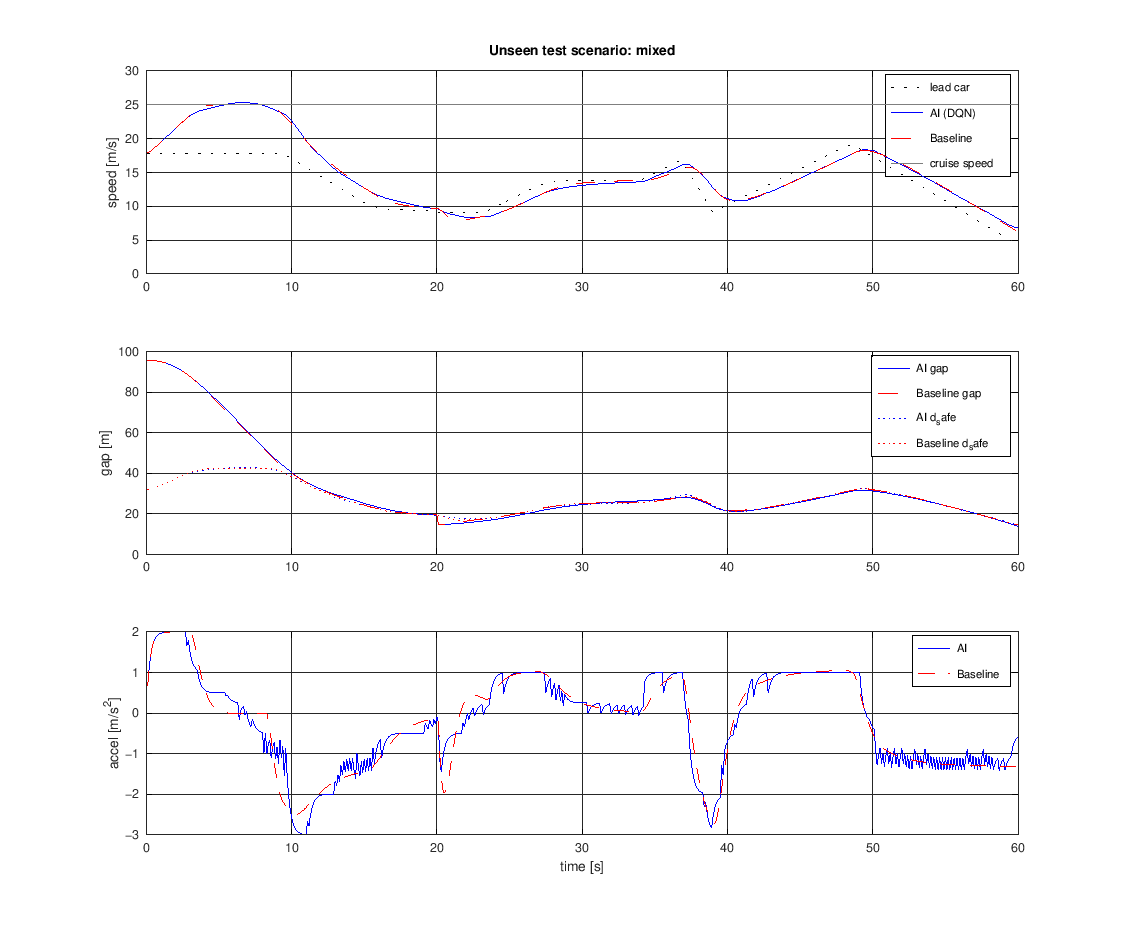
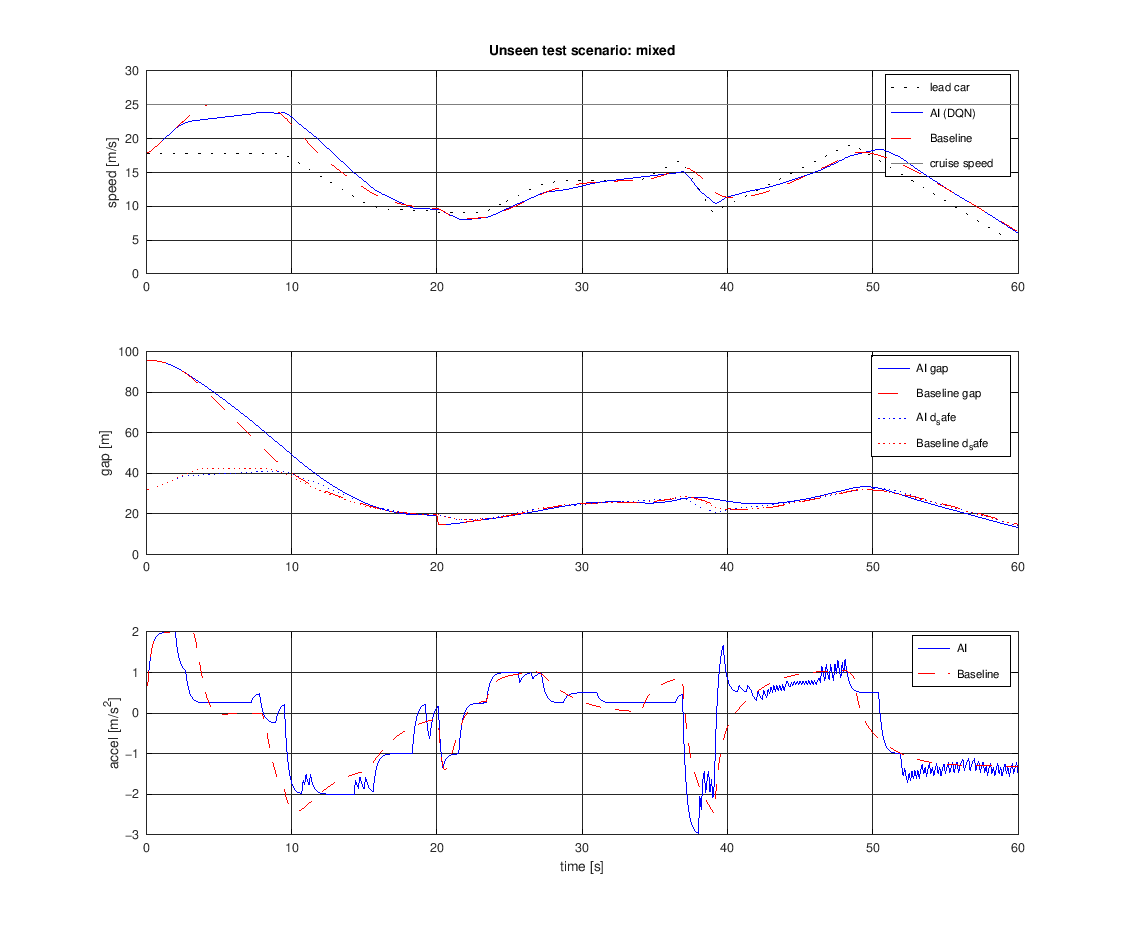
Final run 9 results: re-tuned baseline, exam, stress test, docs
Baseline re-tuned fairly with the new reward and the lead-acceleration
feed-forward option: kp 0.36, kd 0.56, kv 1.5625, e_max 20, ka 0.30.

Exam (105 unseen drives, fourth use, model chosen on the dev set before
it): AI 0 crashes, baseline 0. Gap error AI 10.14 m vs 6.14 m, speed RMSE
2.60 vs 2.61, RMS accel 0.85 vs 0.88, RMS jerk 1.43 vs 0.69. The AI is
more cautious (follows about 9 m further back than d_safe).

Hard-stop stress test (60 drives, AEB off): AI 0 crashes, baseline 8,
previous AI 7.

README, LEARN_WITH_ME and REPORT_NOTES updated with the live-demo crash
story, the new state input, AEB, the honest trade-off, and three new viva
questions.

Claude-Session: https://claude.ai/code/session_01H9iWyBBSsVLaehcuAAkSuw

diff --git a/acc-rl/baseline_acc.m b/acc-rl/baseline_acc.m
@@ -2,12 +2,12 @@ function a = baseline_acc(env, cfg, gains)
 % BASELINE_ACC  A conventional (non-AI) Adaptive Cruise Controller.
 %
 %   a = baseline_acc(env, cfg)          uses the tuned default gains
-%   a = baseline_acc(env, cfg, gains)   gains = [kp kd kv e_max]
+%   a = baseline_acc(env, cfg, gains)   gains = [kp kd kv e_max ka]
 %
 % This is the "rule book driver" used in real cars for years: the
 % CONSTANT TIME-GAP controller, a PD (proportional-derivative) law.
 %
-%   Follow mode :  a_follow = kp * e + kd * (lead speed - our speed)
+%   Follow mode :  a_follow = kp * e + kd * (lead speed - our speed) + ka * (lead accel)
 %                  where e = gap - d_safe, capped at e_max ("saturation")
 %                  "too close -> brake, closing in -> brake, pulling away -> go"
 %   Cruise mode :  a_cruise = kv * (set speed - our speed)
@@ -24,7 +24,7 @@ function a = baseline_acc(env, cfg, gains)
 % the TRAINING scenarios, scored with the SAME reward the AI is trained on.
 
 if nargin < 3 || isempty(gains)
-    gains = [0.45, 0.70, 1.25, 20, 0.6];  % [kp kd kv e_max ka] from tune_baseline.m
+    gains = [0.36, 0.56, 1.5625, 20, 0.30];  % [kp kd kv e_max ka] from tune_baseline.m (run 9)
 end
 kp = gains(1); kd = gains(2); kv = gains(3); e_max = gains(4);
 ka = 0;

diff --git a/acc-rl/REPORT_NOTES.md b/acc-rl/REPORT_NOTES.md
@@ -113,74 +113,105 @@ grid, so the search could have rejected it.
 
 ### 7.1 Training
 
-* 800 episodes, about 18 minutes in Octave on one CPU core.
-* Reward curve (`results/training_reward_curve.png`): starts around -100 to
-  -200 per episode (random pedals, frequent crashes), rises steadily, and
-  plateaus around 400 to 440 once exploration falls to 5% (episode 480).
-* Saved model: episode 770, mock-test score 435.1 on 18 validation drives,
-  with zero crashes.
+* 800 episodes, about 19 minutes in Octave on one CPU core.
+* Reward curve (`results/training_reward_curve.png`): starts far below
+  zero (random pedals, frequent crashes, each crash now costs -300), rises
+  steadily, and plateaus around 400 to 450 once exploration falls to 5%
+  (episode 480).
+* Three seeds were trained (run 9). Saved model: seed 1, episode 730,
+  mock-test score 428.7 on 21 validation drives, with zero crashes.
 
 ### 7.2 Final exam: 105 unseen test episodes (7 families x 15)
 
 | Metric | AI (DQN) | Baseline (PD) | Better |
 |--------|---------:|--------------:|--------|
-| Average following distance [m] | 34.08 | 35.35 | (info) |
-| Average safe distance d_safe [m] | 30.42 | 29.81 | (info) |
-| Gap error abs(gap - d_safe) [m] | 6.29 | 6.24 | Baseline, by 0.7% (practically a tie) |
-| Speed tracking RMSE [m/s] | 2.80 | 2.61 | Baseline, by 7% |
+| Average following distance [m] | 38.74 | 35.18 | (info) |
+| Average safe distance d_safe [m] | 29.63 | 29.84 | (info) |
+| Gap error abs(gap - d_safe) [m] | 10.14 | **6.14** | **Baseline**, clearly |
+| Speed tracking RMSE [m/s] | **2.60** | 2.61 | AI, by 0.5% (a tie) |
 | **Collision rate** | **0%** | **0%** | tie |
-| RMS acceleration [m/s^2] | **0.88** | 0.91 | **AI**, by 3% |
-| RMS jerk [m/s^3] | 1.50 | **0.72** | **Baseline**, clearly |
-| Minimum gap, worst episode [m] | 4.00 | 5.00 | Baseline |
-| Minimum gap, average episode [m] | 18.74 | 19.06 | Baseline, by 2% |
-| Average total reward per episode | 448.7 | 485.5 | Baseline |
+| RMS acceleration [m/s^2] | **0.85** | 0.88 | **AI**, by 3% |
+| RMS jerk [m/s^3] | 1.43 | **0.69** | **Baseline**, clearly |
+| Minimum gap, worst episode [m] | 4.85 | 5.00 | Baseline (a tie) |
+| Minimum gap, average episode [m] | **20.13** | 19.20 | AI, by 5% |
+| Average total reward per episode | 447.9 | 473.1 | Baseline |
 
-Per scenario family (AI / Baseline): the AI holds the safe distance more
-accurately than the baseline in the **hard brake** (5.75 / 7.63 m) and
-**random smooth** (5.45 / 7.48 m) families; the baseline is more accurate in
-the others. Both have zero collisions in every family, including `mixed`,
-which the AI never saw during training.
+Per scenario family (gap error AI / Baseline, metres): constant 8.6 / 3.3,
+cut-in 15.8 / 11.9, hard brake 15.5 / 7.4, mixed 7.5 / 5.9, random smooth
+13.5 / 7.2, slow then fast 5.5 / 4.0, stop and go 4.5 / 3.2. Both have
+zero collisions in every family, including `mixed`, which the AI never saw
+during training.
 
-### 7.3 Development set (30 exam-like drives, own seed)
+The AI follows on average 9 m further back than d_safe (38.7 m vs 29.6 m):
+it has become a cautious driver. That is why its gap error is larger and
+its average minimum gap is larger at the same time.
+
+### 7.3 Development set (35 drives: 30 exam-like plus 5 live-like, own seed)
 
 | | AI | Baseline |
 |---|---:|---:|
+| Mean marks | 446.1 | 446.5 |
 | Collisions | **0** | 1 |
-| Gap error [m] | **9.28** | 10.32 |
-| Speed RMSE [m/s] | **3.12** | 3.14 |
-| RMS acceleration | **0.91** | 0.97 |
-| RMS jerk | 1.55 | **0.71** |
-| Worst minimum gap [m] | **4.6** | -0.7 (crash) |
+| Gap error [m] | 15.65 | **11.95** |
+| Speed RMSE [m/s] | **3.00** | 3.21 |
+| RMS acceleration | **0.89** | 0.96 |
+| RMS jerk | 1.49 | **0.67** |
+| Worst minimum gap [m] | **5.2** | -0.1 (crash) |
 
-### 7.4 Honest interpretation
+### 7.4 Live-demo stress test: 60 "press STOP" drives, no emergency brake
 
-* **Safety goal met:** zero collisions in all 105 unseen tests, and zero on
-  the dev set, where even the tuned baseline crashed once (a stop-and-go
-  drive with a slow start).
-* **Competitive, not dominant:** on the exam, the AI is within about 1% of
-  the baseline on gap error and 2% on average minimum gap, 7% behind on
-  speed tracking, and slightly better on acceleration. On the dev set it
-  wins 5 of the 7 metrics.
+The lead car cruises at 12, 18, 22, 26 or 30 m/s, then at 8, 20 or 40 s
+brakes at 3 or 4 m/s^2 to 0 or 8 m/s, then speeds up again. The AEB safety
+net of the live demo is switched OFF, so only the controller counts.
+
+| | crashes (of 60) | closest gap |
+|---|---:|---:|
+| AI, run 6 (5 inputs, before the fixes) | 7 | crash |
+| **AI, run 9 (final)** | **0** | **4.7 m** |
+| Baseline, final gains | 8 | crash |
+
+All 8 baseline crashes are full stops from a lead speed of 26 or 30 m/s,
+faster than our 25 m/s cruise speed: the gap has grown large, the capped
+spacing error still says "fine", and by the time the closing speed is big
+the stop is no longer possible at 3 m/s^2. This is our own test, designed
+after we saw the live-demo crash, so it is reported separately from the
+exam.
+
+### 7.5 Honest interpretation
+
+* **Safety goal met, and clearly better than before:** zero collisions in
+  all 105 unseen tests, zero on the dev set (where the tuned baseline
+  crashed once), and zero in the 60 hard-stop drives where the baseline
+  crashed 8 times and the previous AI 7 times.
+* **The price is accuracy:** the final AI keeps a bigger gap than it
+  needs, so its gap error on the exam (10.1 m) is worse than the baseline's
+  (6.1 m) and worse than the previous AI's (6.3 m). In the live demo you see
+  this as the blue car hanging back a little further than the dotted safe
+  distance. Speed tracking and acceleration are a tie or slightly better.
 * **Clear loss: jerk.** The AI's RMS jerk is about twice the baseline's.
   Cause: discrete actions. The AI picks from 10 fixed accelerations and
   keeps making small corrections between neighbouring levels, while the PD
   controller outputs any value smoothly. A continuous-action method
   (DDPG/TD3) is the natural fix.
 * **The baseline is strong because we made it strong:** spacing-error
-  saturation plus a fair 4-parameter grid search with the same reward.
-  Without saturation, the plain PD law crashed in a hard-brake test.
+  saturation, lead-acceleration feed-forward and a fair 5-parameter grid
+  search with the same reward. Without saturation, the plain PD law crashed
+  in a hard-brake test.
 
-### 7.5 How the test set was used (transparency)
+### 7.6 How the test set was used (transparency)
 
-The exam was run three times in total: (1) after run 4, which revealed that
-the 12-drive validation set was too small (gap error 10.8 vs 6.2 m and one
-crash); (2) after run 6, the final model; (3) this re-run after restoring
-run 6, which gave identical numbers. After the first run we introduced the
-separate development set and made every later decision on it (fixing the
-sparse reward, choosing seed 1 over seed 2, rejecting run 7), so the
-reported model was not tuned on the test set.
+The exam was run four times in total: (1) after run 4, which revealed that
+the 12-drive validation set was too small; (2) after run 6; (3) a re-run
+after restoring run 6, which gave identical numbers; (4) after run 9, the
+final model. After the first run we introduced the separate development set
+and made every later decision on it (fixing the sparse reward, choosing
+seeds, rejecting run 7, choosing run 9 seed 1). Run 9 was chosen BEFORE the
+fourth exam, by the same rule as before (crash-free on the dev set, best
+mean dev marks), and it was kept even though the exam showed a worse gap
+error than run 6. Swapping back because of exam numbers would mean
+choosing the model on the test set.
 
-### 7.6 Tuning history (summary)
+### 7.7 Tuning history (summary)
 
 | Run | Change | Outcome |
 |-----|--------|---------|
@@ -188,8 +219,10 @@ reported model was not tuned on the test set.
 | 2-3 | jerk x4, finer actions, lr decay; "braking needed" penalty, baseline saturation | found and fixed a late-braking crash |
 | 4 | fixed reward loophole (tailgating a slightly faster car) | dev and exam showed poor generalisation |
 | 4b | refinement phase | worse; removed |
-| 5-6 | distance-blended reward (fixes sparse reward), 18 mock-test drives, two seeds | **final model**: 0 crashes on dev and exam |
+| 5-6 | distance-blended reward (fixes sparse reward), 18 mock-test drives, two seeds | 0 crashes on dev and exam, gap error a tie with the baseline |
 | 7 | absolute-value jerk penalty | worse jerk, rejected |
+| 8 | crash -300, safety penalties capped, speeding penalty, `live_like` family | still crashed in hard-stop drives (the AI could not see the lead braking) |
+| 9 | 6th input: lead acceleration; braking-needed counts the lead's stopping distance; baseline feed-forward, re-tuned | **final model**: 0 crashes everywhere, but a looser gap |
 
 
 ## 8. Limitations (be honest, examiners like this)
@@ -199,7 +232,10 @@ reported model was not tuned on the test set.
 * Discrete actions: the AI can only choose from 10 accelerations, which
   makes perfectly smooth control harder than for the continuous baseline.
 * Simulation only: no real vehicle data. A real car would need far more
-  testing, safety certification and a fallback (e.g. emergency braking).
+  testing and safety certification. The live demo has a simple emergency
+  brake (AEB) as a fallback, but the exam deliberately runs without it.
+* The final AI is cautious: it follows about 9 m further back than d_safe,
+  so the safety gain cost some gap accuracy.
 * A DQN gives no formal safety guarantee. Zero collisions on 105 test
   episodes is evidence, not proof.
 * Results depend on the reward design; a different weighting of comfort vs.
@@ -212,7 +248,11 @@ reported model was not tuned on the test set.
 
 * Continuous-action methods (DDPG, TD3, SAC) for smoother control.
 * Sensor noise, delay and partial observability; a recurrent network.
-* Safety layer ("shield") that overrides the agent if braking needed is too high.
+* Win back gap accuracy without losing safety: for example a stronger gap
+  reward, or training longer on the `live_like` family. Decide on the dev
+  set, not the exam.
+* A formal safety layer ("shield"), like the live demo's AEB, used and
+  evaluated in the exam too.
 * Multi-vehicle traffic and string stability (platooning).
 * Real driving-data lead profiles (e.g. from public highway datasets).
 * Hardware-in-the-loop or a small robot-car demo.
@@ -232,6 +272,9 @@ reported model was not tuned on the test set.
 * "During tuning I found and fixed a reward loophole: the agent tailgated a
   car that was slightly faster than the cruise speed, because I had written
   the reward badly. RL optimises exactly what you reward."
+* "Playing with the live demo found a crash the exam never tested. The AI
+  could not see that the car ahead was braking. One extra input, the lead
+  car's acceleration, took it from 7 crashes to 0 in 60 hard-stop drives."
 
 ## 11. Likely viva questions with simple answers
 
@@ -326,26 +369,51 @@ reported model was not tuned on the test set.
     optimise exactly what you reward.
 
 18. **Where does your AI lose to the baseline and why?**
-    Mainly jerk: about 1.5 vs 0.7 m/s^3. The AI chooses from 10 fixed
+    Jerk: about 1.4 vs 0.7 m/s^3. The AI chooses from 10 fixed
     accelerations and keeps switching between neighbouring levels, while
-    the PD controller outputs any value smoothly. Speed tracking is 7% worse;
-    gap error is essentially equal. Both had zero collisions.
+    the PD controller outputs any value smoothly. And gap error: 10.1 vs
+    6.1 m, because the final AI follows about 9 m further back than it
+    needs to. Speed tracking and acceleration are a tie or slightly
+    better. Both had zero collisions on the exam; in the hard-stop test the
+    AI had 0 crashes and the baseline 8.
 
-21. **Why not just report the results that look best?**
+19. **Why not just report the results that look best?**
     Because that would be dishonest. I chose the model on validation and
     dev data, and the exam result is what it is. Reporting where the AI
     loses (jerk) and why is part of a credible result.
 
-22. **What did you learn from the failed experiments?**
+20. **What did you learn from the failed experiments?**
     The refinement phase failed because an empty replay buffer with almost
     no exploration made the agent forget bad situations. The absolute-value
     jerk penalty failed because it made big lurches cheaper, while the
     metric (RMS) punishes them most. The penalty should have the same shape
     as the metric.
 
-19. **Could this go into a real car?**
+21. **Could this go into a real car?**
     Not directly. It needs real sensor noise, many more scenarios, formal
     safety checks and a safety fallback. It is a proof of concept.
 
-20. **What would you do next?**
-    Continuous actions, sensor noise, a safety shield, and multi-car traffic.
+22. **What would you do next?**
+    Win back gap accuracy without losing safety, continuous actions, sensor
+    noise, a safety shield, and multi-car traffic.
+
+23. **Why did you add the lead car's acceleration as an input?**
+    In the live demo, when the lead car braked hard from far away, the AI
+    reacted too late and crashed. With only one snapshot of speeds and gap,
+    a car that has just started braking looks almost like a cruising one,
+    so the state was missing information (it was not Markov). Real ACC
+    radars measure lead acceleration too. After adding it, hard-stop
+    crashes went from 7 to 0 out of 60.
+
+24. **Your demo has emergency braking. Isn't that cheating?**
+    No, because the exam does not use it. In the live demo a person can
+    brake the lead car at 4 m/s^2, harder than ACC may brake (3 m/s^2), so
+    in some situations no ACC can avoid a crash: that is physics. Real cars
+    have a separate AEB system for exactly this. The demo shows and counts
+    when it acts; the final AI did not need it in our STOP tests.
+
+25. **Your new model has a worse gap error than the old one. Why keep it?**
+    It was chosen on the development set before the exam, by the same rule
+    as before. Swapping back because of the exam numbers would be choosing
+    the model on the test set. And it fixes the crash that really matters:
+    0 instead of 7 crashes when the car ahead stops hard.

diff --git a/acc-rl/README.md b/acc-rl/README.md
@@ -89,18 +89,22 @@ tested with: `octave --eval "run_all"`.
 | Metric | AI (DQN) | Baseline (PD) |
 |--------|---------:|--------------:|
 | Collisions | **0** | **0** |
-| Gap error [m] | 6.29 | 6.24 |
-| Speed RMSE [m/s] | 2.80 | 2.61 |
-| RMS acceleration [m/s^2] | **0.88** | 0.91 |
-| RMS jerk [m/s^3] | 1.50 | **0.72** |
-| Worst minimum gap [m] | 4.00 | 5.00 |
+| Gap error [m] | 10.14 | **6.14** |
+| Speed RMSE [m/s] | **2.60** | 2.61 |
+| RMS acceleration [m/s^2] | **0.85** | 0.88 |
+| RMS jerk [m/s^3] | 1.43 | **0.69** |
+| Worst minimum gap [m] | 4.85 | 5.00 |
 
-The AI never crashes and is close to a carefully tuned conventional
-controller on gap and speed. It is slightly gentler on acceleration, but
-clearly less smooth (jerk), because it picks from 10 fixed accelerations
-instead of a continuous value. Full discussion: `REPORT_NOTES.md`,
-section 7. The 3D demo (`demo()`) is the best way to see the behaviour, and
-it runs live on screen.
+Plus a hard-stop stress test (60 drives where the car ahead brakes to a
+stop, emergency brake switched off): **AI 0 crashes, baseline 8**.
+
+The AI never crashes, ties or slightly beats a carefully tuned conventional
+controller on speed tracking and acceleration, and handles sudden stops
+far better. It pays for that with caution: it follows about 9 m further
+back than needed, so its gap error is larger. It is also less smooth
+(jerk), because it picks from 10 fixed accelerations instead of a
+continuous value. Full, honest discussion: `REPORT_NOTES.md`, section 7.
+The 3D demo (`demo()`) is the best way to see the behaviour.
 
 ---
 
@@ -189,8 +193,8 @@ it runs live on screen.
   sync every 2000 steps, gamma 0.99, fixed seed.
   800 episodes, epsilon 1.0 -> 0.05, learning rate 5e-4 -> 1e-4.
   The brain with the best crash-free mock-test score (21 drives) is kept.
-* **Baseline**: e = min(gap - d_safe, e_max); a = min(kv (25 - v), kp e + kd (v_lead - v)),
-  clipped to [-3, 2]. Tuned: kp = 0.45, kd = 0.70, kv = 1.25, e_max = 20 m.
+* **Baseline**: e = min(gap - d_safe, e_max); a = min(kv (25 - v), kp e + kd (v_lead - v) + ka a_lead),
+  clipped to [-3, 2]. Tuned: kp = 0.36, kd = 0.56, kv = 1.5625, e_max = 20 m, ka = 0.30.
 * **Testing**: 7 families x 15 = 105 unseen episodes, different seed and
   ranges from training, plus a family (`mixed`) never seen in training.
 

diff --git a/acc-rl/LEARN_WITH_ME.md b/acc-rl/LEARN_WITH_ME.md
@@ -473,7 +473,7 @@ pedal changes about 4 times cheaper (jerk 10: 0.8 before, 0.2 after), so the
 AI swapped many small wiggles for fewer big lurches. Our exam metric is RMS
 jerk, which squares every value and punishes big lurches heavily.
 Lesson: **give the penalty the same shape as the metric you care about.**
-We went back to the run-6 model, which is the final one.
+We went back to the run-6 model (until run 9 replaced it, see below).
 
 **Run 8: the live demo found three new problems.** Driving the grey car by
 hand in the live demo, pressing STOP made the AI crash into it. A drive like
@@ -532,6 +532,15 @@ cars handle this with a second system, AEB (automatic emergency braking),
 that only acts when a crash is close. The demo has one too, and counts how
 often each driver needed it. A good ACC driver needs it rarely. The exam
 does not use AEB at all.
+
+**The result, honestly.** In the 60 hard-stop drives with no emergency
+brake, the run-9 AI crashed 0 times (the old AI 7, the classic controller
+8). On the 105-drive exam it still had 0 crashes. But it became a
+cautious driver: it follows about 9 m further back than the safe distance,
+so its gap error grew from 6.3 m to 10.1 m (the classic controller: 6.1 m).
+We chose this model on the development set BEFORE the exam and kept it, as
+the rules say. Safety was the problem we set out to fix; winning back the
+gap accuracy is the next job.
 
 Lesson: **test your AI in situations you did not design.** The exam
 measures what you thought of; playing with it finds what you did not.
